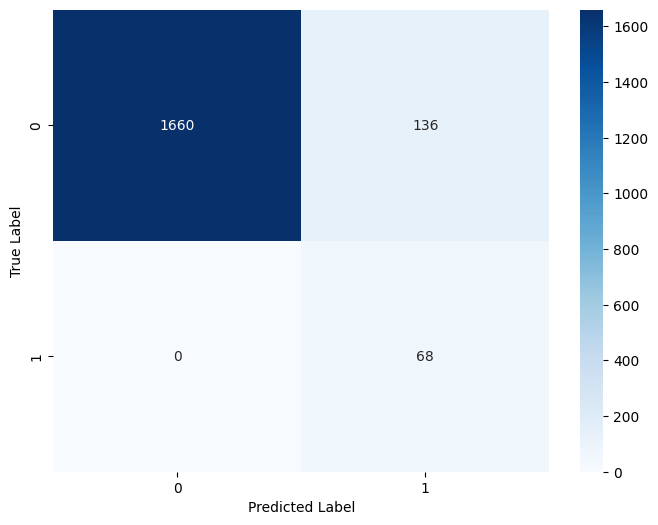
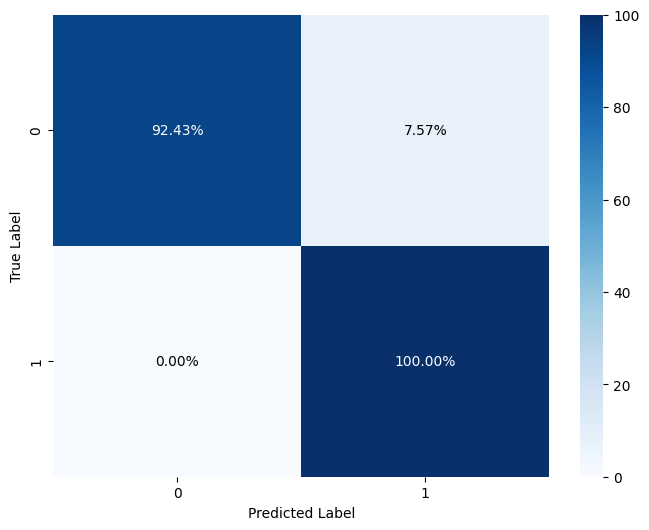
Enhance confusion matrix visualization by adding percentage valuesfor better readability.

diff --git a/utils/Plots.py b/utils/Plots.py
@@ -110,6 +110,9 @@ def plot_confusion_matrix(y_true, y_pred):
         - Classification report with precision, recall, and F1-score
     """
     confusion_mat = confusion_matrix(y_true, y_pred)
+    # Convert to percentages
+    confusion_mat_percent = (confusion_mat.astype('float') / 
+                           confusion_mat.sum(axis=1)[:, np.newaxis] * 100)
     
     plt.imshow(confusion_mat, cmap=plt.cm.Blues)
     plt.colorbar()
@@ -123,11 +126,13 @@ def plot_confusion_matrix(y_true, y_pred):
     
     # Add numbers to cells
     threshold = confusion_mat.max() / 2.
+    # Add percentage values to cells
+    threshold = confusion_mat_percent.max() / 2.
     for i in range(2):
         for j in range(2):
-            plt.text(j, i, format(confusion_mat[i, j], 'd'),
+            plt.text(j, i, f'{confusion_mat_percent[i, j]:.1f}%',
                     ha="center", va="center",
-                    color="white" if confusion_mat[i, j] > threshold else "black")
+                    color="white" if i==0 and j==0 else "black")
     
     plt.show()
     
